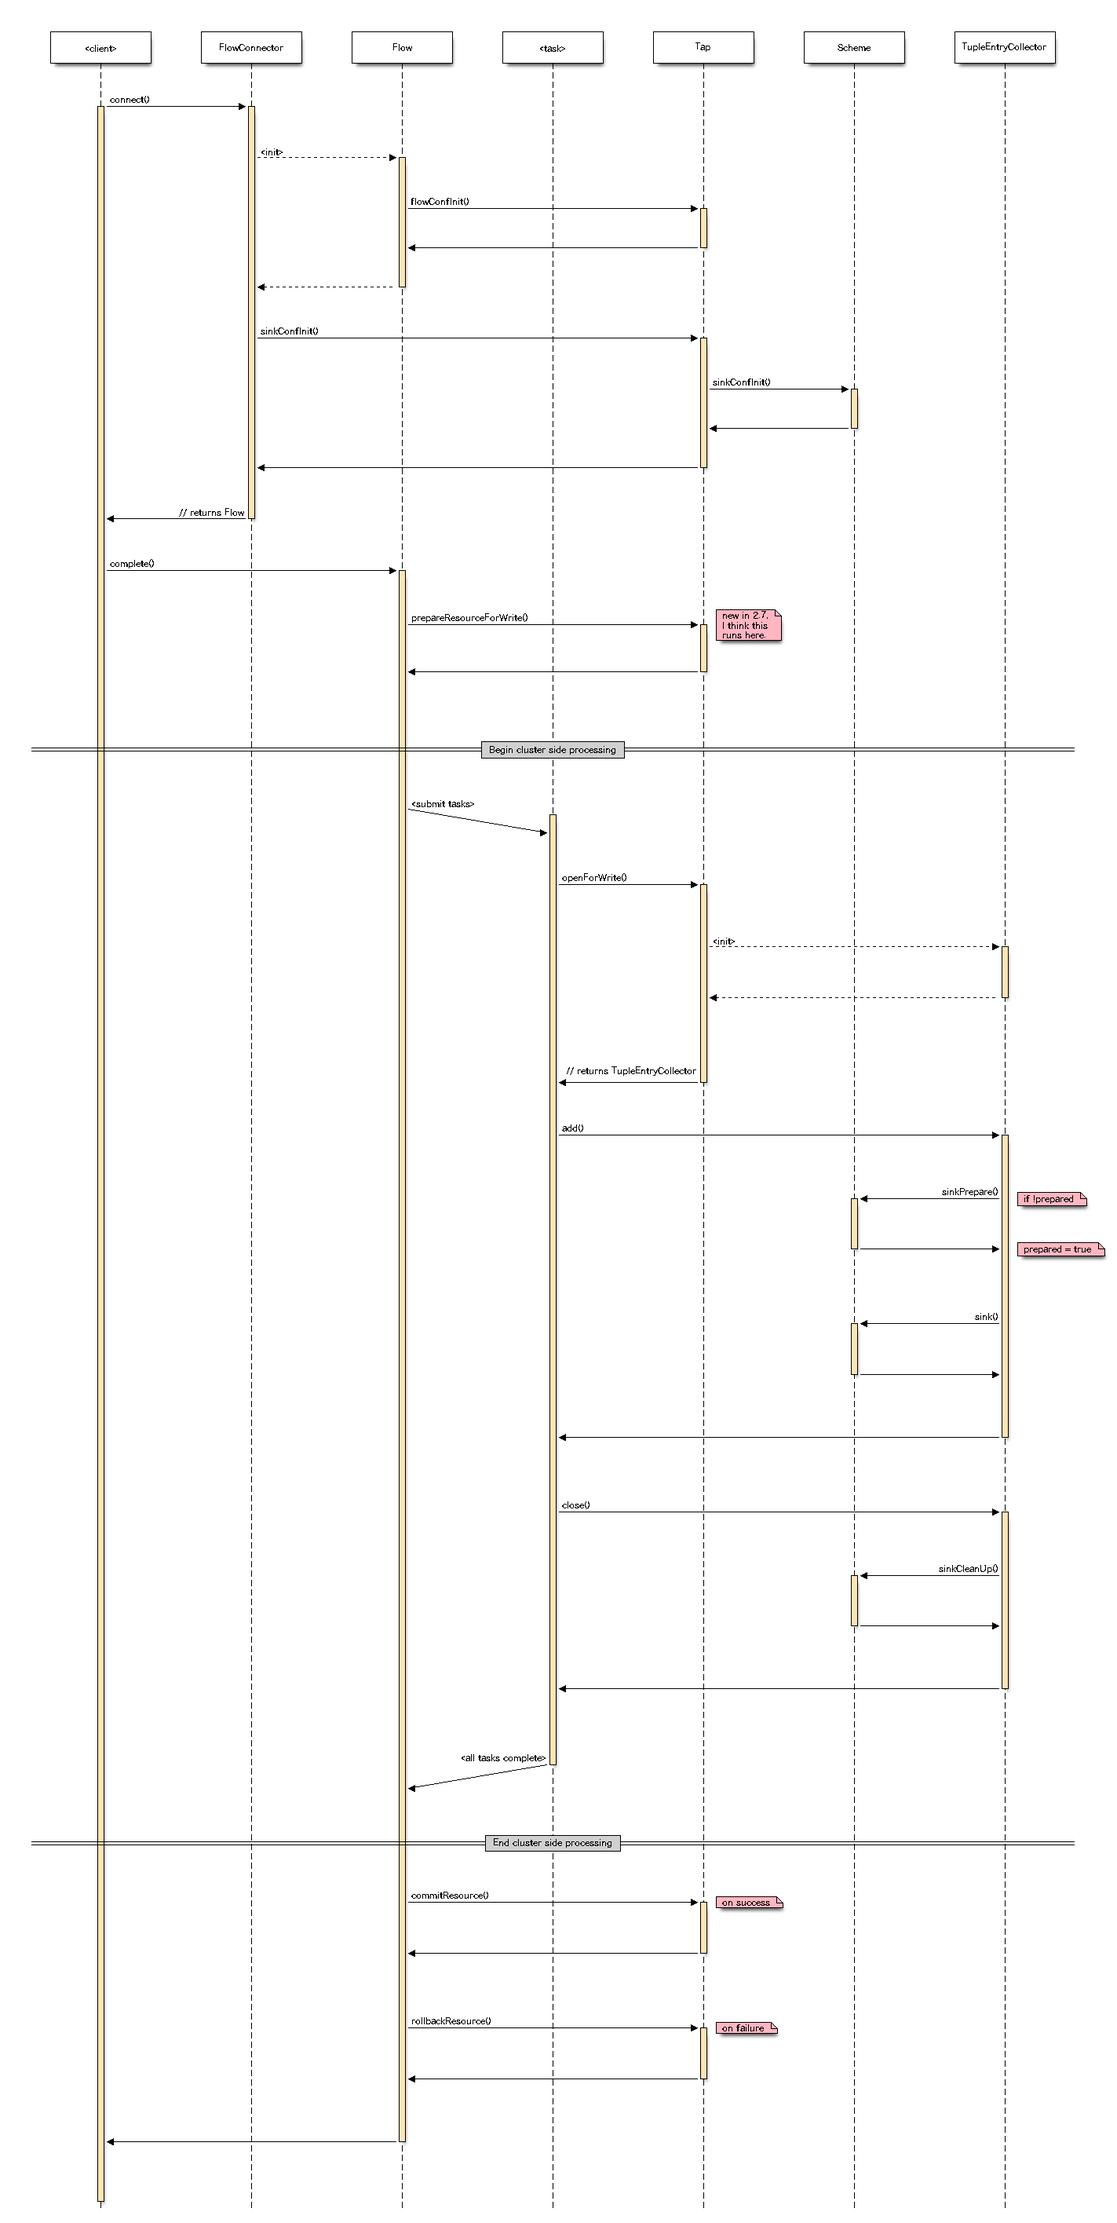
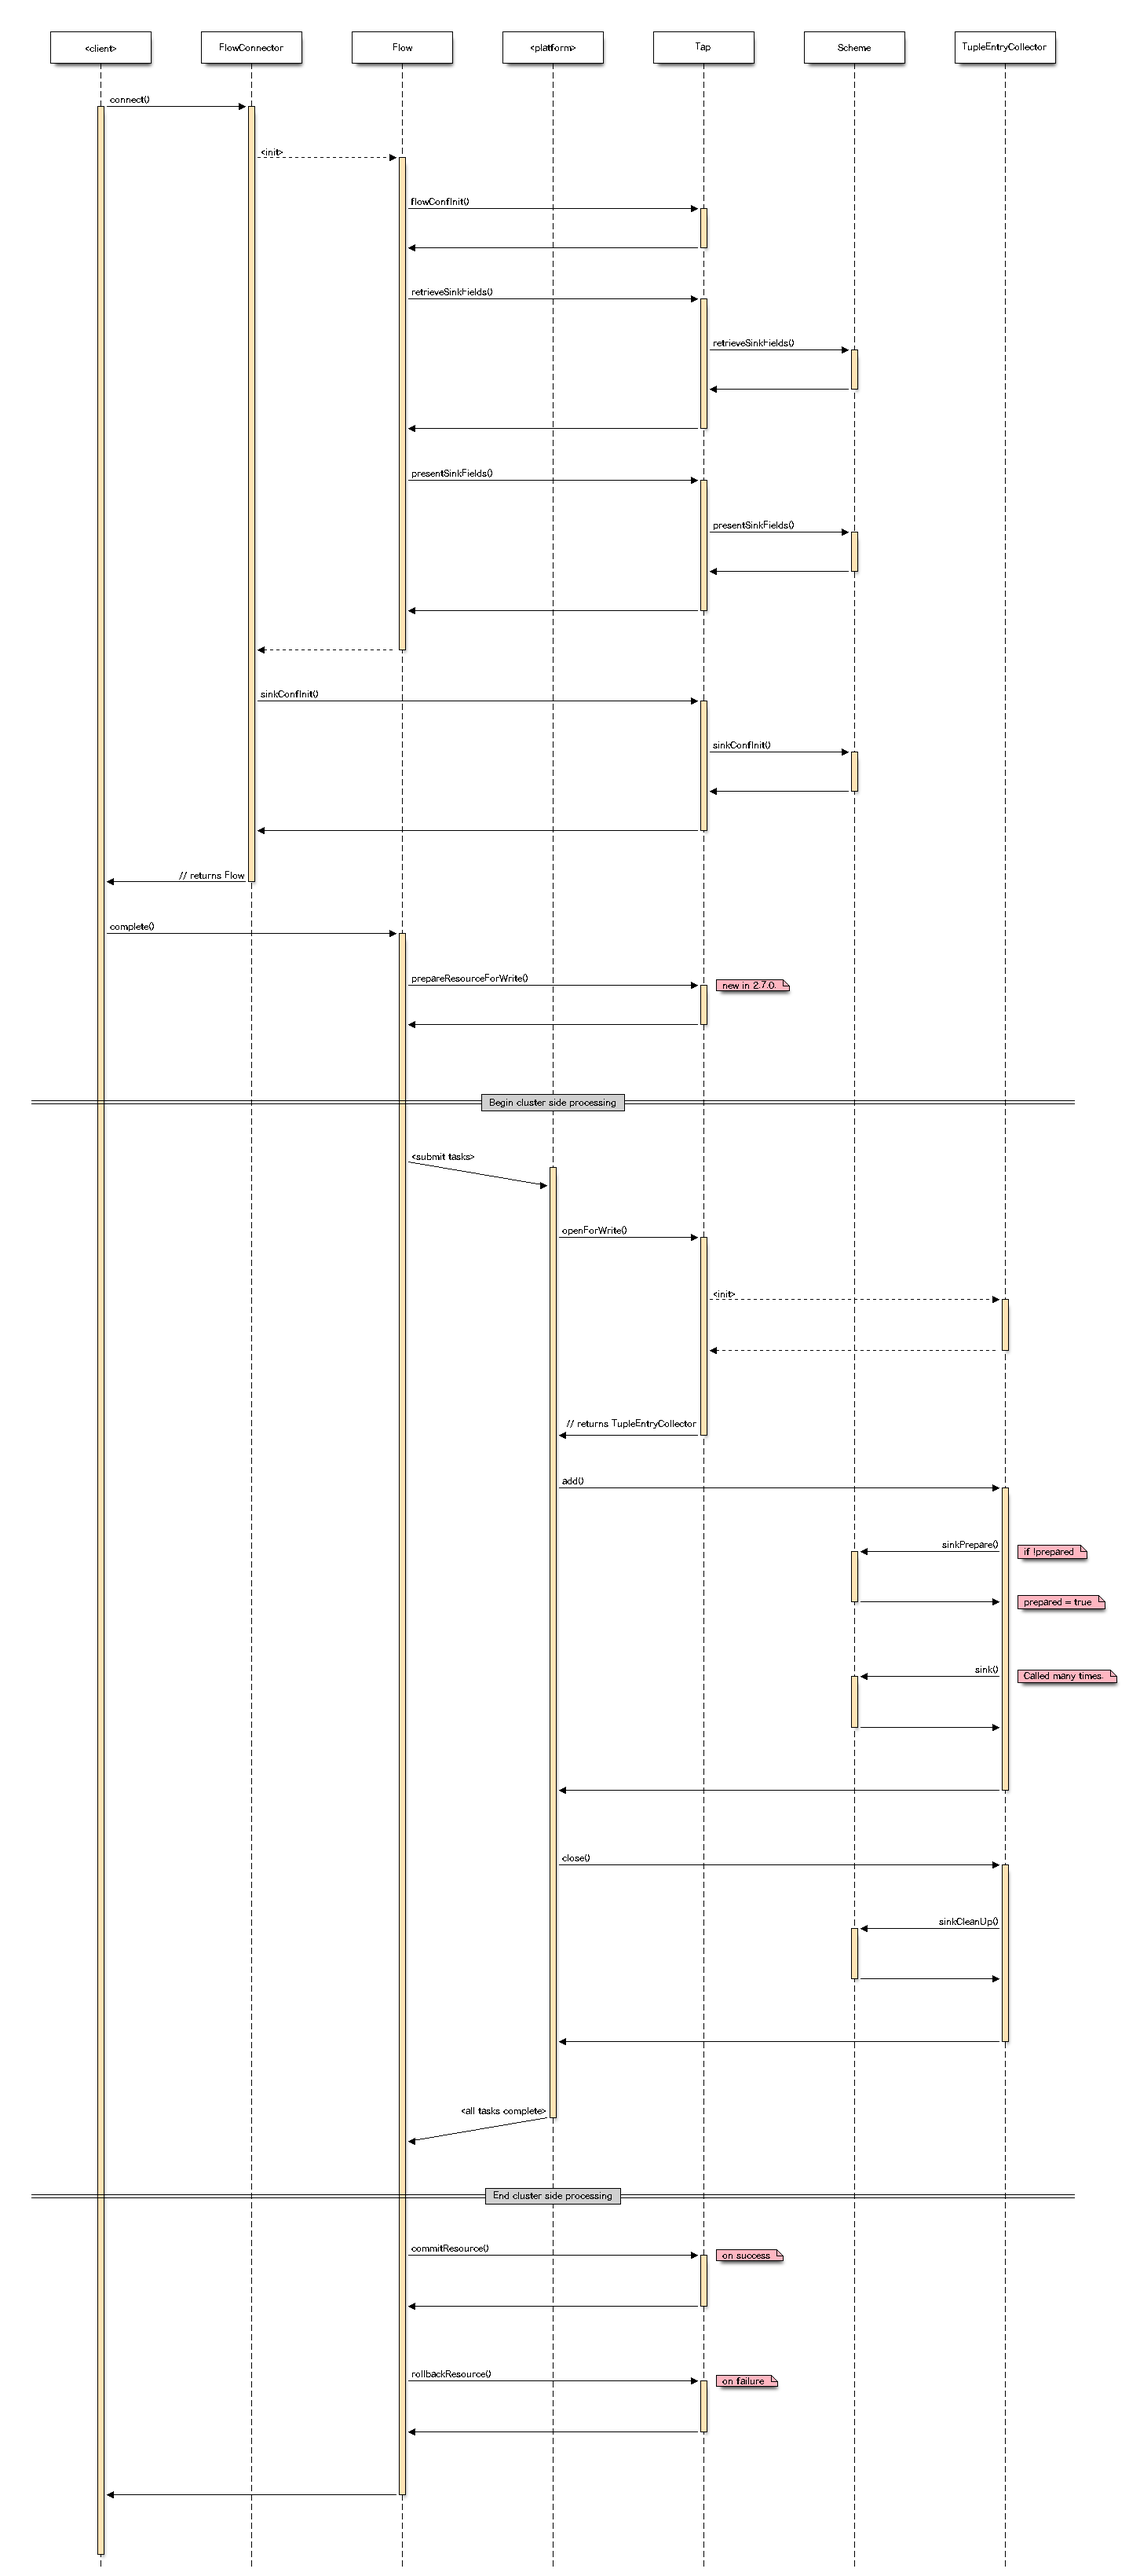
Changed nomencalture, added fields methods.

diff --git a/README.md b/README.md
@@ -3,7 +3,7 @@ Sequence diagrams describing the standard life-cycles in Cascading's `Tap` API. 
 
 Analysis was performed against Cascading's Hadoop platform classes for version 2.7.0. Note that this sequence may differ for different platforms and/or versions. Created with [seqdiag](http://blockdiag.com/en/seqdiag/) and excessive use of `^⌥H` in Eclipse, and hence prone to human error.
 
-Note that within the diagrams the `<client>` and `<task>` components represent the tool and job-task in MapReduce nomenclature. These are considered an abstract boundary point because as Cascading developers we rarely care, understand, or know what these look like internally. They are considered black-boxes, implementing the Cascading runtime on some execution engine but exercising the public `Tap` API in a contractual manner. All other components map to their respective classes within the Cascading API.
+Note that within the diagrams the `<client>` and `<platform>` components represent the tool and job-task in MapReduce nomenclature. These are considered an abstract boundary point because as Cascading developers we rarely care, understand, or know what these look like internally. They are considered black-boxes, implementing the Cascading runtime on some execution engine but exercising the public `Tap` API in a contractual manner. All other components map to their respective classes within the Cascading API.
 
 #Usage
     seqdiag source.diag ; open -a "Preview" source.png
